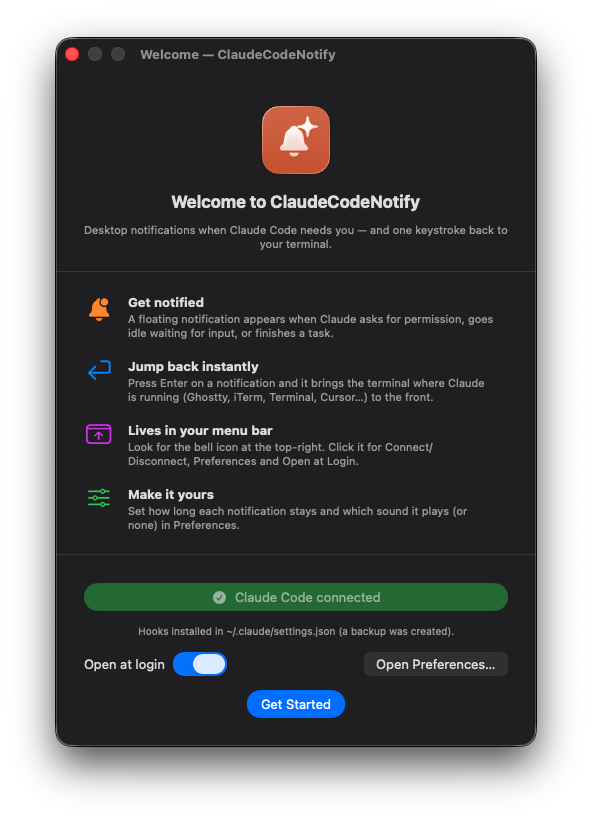
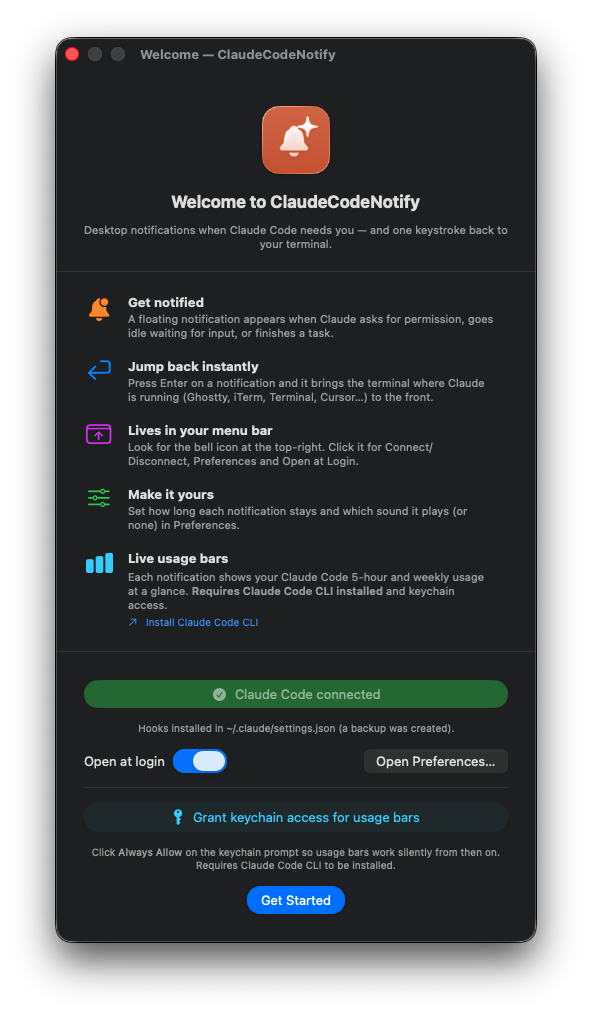
Add status usage

Changed region(s): [[0.0912, 0.0305, 0.9122, 0.9756]]

diff --git a/Sources/ClaudeCodeNotify/UI/OnboardingView.swift b/Sources/ClaudeCodeNotify/UI/OnboardingView.swift
@@ -7,6 +7,7 @@ struct OnboardingView: View {
 
     @State private var connected = HookInstaller.isInstalled
     @State private var loginEnabled = LoginItem.isEnabled
+    @State private var keychainGranted = false
 
     var body: some View {
         VStack(spacing: 0) {
@@ -50,9 +51,35 @@ struct OnboardingView: View {
                     "Look for the bell icon at the top-right. Click it for Connect/Disconnect, Preferences and Open at Login.")
             feature("slider.horizontal.3", .green, "Make it yours",
                     "Set how long each notification stays and which sound it plays (or none) in Preferences.")
+            featureUsage
         }
         .padding(.horizontal, 28)
         .padding(.vertical, 22)
+    }
+
+    private var featureUsage: some View {
+        HStack(alignment: .top, spacing: 14) {
+            Image(systemName: "chart.bar.fill")
+                .font(.system(size: 22))
+                .foregroundStyle(.cyan)
+                .frame(width: 30)
+            VStack(alignment: .leading, spacing: 4) {
+                Text("Live usage bars").font(.headline)
+                (Text("Each notification shows your Claude Code 5-hour and weekly usage at a glance. ")
+                    + Text("Requires Claude Code CLI installed").bold()
+                    + Text(" and keychain access."))
+                    .font(.subheadline).foregroundStyle(.secondary)
+                    .fixedSize(horizontal: false, vertical: true)
+                Button {
+                    NSWorkspace.shared.open(URL(string: "https://code.claude.com/docs/en/quickstart#step-1-install-claude-code")!)
+                } label: {
+                    Label("Install Claude Code CLI", systemImage: "arrow.up.right")
+                        .font(.caption)
+                }
+                .buttonStyle(.link)
+            }
+            Spacer(minLength: 0)
+        }
     }
 
     private func feature(_ icon: String, _ color: Color, _ title: String, _ desc: String) -> some View {
@@ -103,6 +130,28 @@ struct OnboardingView: View {
                 Spacer()
                 Button("Open Preferences…") { PreferencesWindowController.shared.show() }
             }
+
+            Divider()
+
+            Button {
+                Task {
+                    let granted = await UsageFetcher.fetch() != nil
+                    keychainGranted = granted
+                }
+            } label: {
+                Label(keychainGranted ? "Keychain access granted" : "Grant keychain access for usage bars",
+                      systemImage: keychainGranted ? "checkmark.circle.fill" : "key.fill")
+                    .frame(maxWidth: .infinity)
+            }
+            .controlSize(.large)
+            .buttonStyle(.bordered)
+            .tint(keychainGranted ? .green : .cyan)
+            .disabled(keychainGranted)
+
+            (Text("Click ") + Text("Always Allow").bold() + Text(" on the keychain prompt so usage bars work silently from then on. Requires Claude Code CLI to be installed."))
+                .font(.caption).foregroundStyle(.secondary)
+                .multilineTextAlignment(.center)
+                .fixedSize(horizontal: false, vertical: true)
 
             Button("Get Started", action: onClose)
                 .controlSize(.large)

diff --git a/Sources/ClaudeCodeNotify/Usage/UsageFetcher.swift b/Sources/ClaudeCodeNotify/Usage/UsageFetcher.swift
@@ -10,9 +10,17 @@ struct UsageData {
 enum UsageFetcher {
     private static let keychainService = "Claude Code-credentials"
     private static let apiURL = URL(string: "https://api.anthropic.com/v1/messages")!
+    private static let claudeCandidates = ["/opt/homebrew/bin/claude", "/usr/local/bin/claude", "claude"]
+    private static let refreshCooldown: TimeInterval = 5 * 60
+    private static var lastRefreshAttempt: Date = .distantPast
 
     static func fetch() async -> UsageData? {
+        return await fetchAttempt(retried: false)
+    }
+
+    private static func fetchAttempt(retried: Bool) async -> UsageData? {
         guard let token = readToken() else { return nil }
+
         var req = URLRequest(url: apiURL)
         req.httpMethod = "POST"
         req.setValue("2023-06-01", forHTTPHeaderField: "anthropic-version")
@@ -30,6 +38,12 @@ enum UsageFetcher {
         guard let (_, response) = try? await URLSession.shared.data(for: req),
               let http = response as? HTTPURLResponse else { return nil }
 
+        if (http.statusCode == 401 || http.statusCode == 403), !retried {
+            let refreshed = await attemptCliRefresh()
+            if refreshed { return await fetchAttempt(retried: true) }
+            return nil
+        }
+
         let h = { (name: String) -> String? in http.value(forHTTPHeaderField: name) }
 
         guard let u5 = pct(h("anthropic-ratelimit-unified-5h-utilization")),
@@ -41,6 +55,25 @@ enum UsageFetcher {
             util7d: u7,
             reset7d: epoch(h("anthropic-ratelimit-unified-7d-reset"))
         )
+    }
+
+    private static func attemptCliRefresh() async -> Bool {
+        guard Date().timeIntervalSince(lastRefreshAttempt) > refreshCooldown else { return false }
+        lastRefreshAttempt = Date()
+        return await withCheckedContinuation { continuation in
+            let p = Process()
+            p.executableURL = URL(fileURLWithPath: claudeCandidates[0])
+            p.arguments = ["-p", "hi", "--max-budget-usd", "0.01"]
+            p.standardInput = FileHandle.nullDevice
+            p.standardOutput = FileHandle.nullDevice
+            p.standardError = FileHandle.nullDevice
+            p.terminationHandler = { _ in continuation.resume(returning: true) }
+            do {
+                try p.run()
+            } catch {
+                continuation.resume(returning: false)
+            }
+        }
     }
 
     private static func readToken() -> String? {

diff --git a/Sources/ClaudeCodeNotify/MenuBar/StatusItemController.swift b/Sources/ClaudeCodeNotify/MenuBar/StatusItemController.swift
@@ -1,4 +1,5 @@
 import AppKit
+import SwiftUI
 
 /// Item de menu bar: ícone de sino + menu (conectar/desconectar o Claude Code, abrir no login, sair).
 @MainActor
@@ -6,6 +7,7 @@ final class StatusItemController: NSObject {
     private let statusItem: NSStatusItem
     private var config: Config
     private var token: String { config.token }
+    private var menuUsage: UsageData? = nil
 
     init(config: Config) {
         self.config = config
@@ -35,6 +37,20 @@ final class StatusItemController: NSObject {
                                   action: nil, keyEquivalent: "")
         header.isEnabled = false
         header.image = statusDot(connected ? .systemGreen : .systemRed)
+
+        if let usage = menuUsage {
+            menu.addItem(.separator())
+            let usageItem = NSMenuItem()
+            usageItem.isEnabled = false
+            let hostingView = NSHostingView(rootView:
+                UsageBarsView(usage: usage, horizontalPadding: 17)
+                    .frame(width: 260)
+                    .environment(\.colorScheme, .dark)
+            )
+            hostingView.frame = CGRect(origin: .zero, size: hostingView.fittingSize)
+            usageItem.view = hostingView
+            menu.addItem(usageItem)
+        }
 
         menu.addItem(.separator())
         if connected {
@@ -169,6 +185,13 @@ extension StatusItemController: NSMenuDelegate {
             await Updater.shared.silentCheck()
             if !hadUpdate && Updater.shared.hasNewVersion {
                 await MainActor.run { self.rebuildMenu() }
+            }
+        }
+        Task {
+            let usage = await UsageFetcher.fetch()
+            await MainActor.run {
+                self.menuUsage = usage
+                self.rebuildMenu()
             }
         }
         rebuildMenu() // reflete o estado real do settings.json a cada abertura

diff --git a/Sources/ClaudeCodeNotify/Usage/UsageBarsView.swift b/Sources/ClaudeCodeNotify/Usage/UsageBarsView.swift
@@ -2,6 +2,7 @@ import SwiftUI
 
 struct UsageBarsView: View {
     let usage: UsageData
+    var horizontalPadding: CGFloat = 16
 
     var body: some View {
         VStack(spacing: 6) {
@@ -9,7 +10,7 @@ struct UsageBarsView: View {
             UsageBarRow(label: "5h", util: usage.util5h, reset: usage.reset5h)
             UsageBarRow(label: "7d", util: usage.util7d, reset: usage.reset7d)
         }
-        .padding(.horizontal, 16)
+        .padding(.horizontal, horizontalPadding)
         .padding(.bottom, 14)
         .padding(.top, 6)
     }
@@ -27,17 +28,13 @@ private struct UsageBarRow: View {
                 .foregroundStyle(.secondary)
                 .frame(width: 16, alignment: .leading)
 
-            GeometryReader { geo in
-                ZStack(alignment: .leading) {
-                    RoundedRectangle(cornerRadius: 3)
-                        .fill(Color.white.opacity(0.1))
-                        .frame(height: 6)
-                    RoundedRectangle(cornerRadius: 3)
-                        .fill(barColor)
-                        .frame(width: geo.size.width * util, height: 6)
-                }
+            Canvas { ctx, size in
+                let track = Path(roundedRect: CGRect(x: 0, y: 0, width: size.width, height: size.height), cornerRadius: 2)
+                ctx.fill(track, with: .color(.white.opacity(0.1)))
+                let fill = Path(roundedRect: CGRect(x: 0, y: 0, width: size.width * util, height: size.height), cornerRadius: 2)
+                ctx.fill(fill, with: .color(barColor.opacity(0.55)))
             }
-            .frame(height: 6)
+            .frame(height: 4)
 
             Text("\(Int(util * 100))%")
                 .font(.caption2)

diff --git a/Sources/ClaudeCodeNotify/UI/NotificationRenderer.swift b/Sources/ClaudeCodeNotify/UI/NotificationRenderer.swift
@@ -12,9 +12,18 @@ enum NotificationRenderer {
             (sample(event: "Stop", type: nil, msg: nil, last: "Done — refactored the auth module, added retries, and the full test suite is green."), "iTerm2")
         ].compactMap { ev, host in ev.map { ($0, host) } }
 
+        let sampleUsages = [
+            UsageData(util5h: 0.07,  reset5h: Date().addingTimeInterval(7200),
+                      util7d: 0.62,  reset7d: Date().addingTimeInterval(259200)),
+            UsageData(util5h: 0.68,  reset5h: Date().addingTimeInterval(3600),
+                      util7d: 0.88,  reset7d: Date().addingTimeInterval(172800)),
+            UsageData(util5h: 0.94,  reset5h: Date().addingTimeInterval(1800),
+                      util7d: 0.82,  reset7d: Date().addingTimeInterval(86400)),
+        ]
+
         let stack = VStack(spacing: 16) {
-            ForEach(Array(samples.enumerated()), id: \.offset) { _, pair in
-                NotificationView(event: pair.0, hostAppName: pair.1)
+            ForEach(Array(samples.enumerated()), id: \.offset) { i, pair in
+                NotificationView(event: pair.0, hostAppName: pair.1, previewUsage: sampleUsages[i])
             }
         }
         .padding(28)
@@ -24,7 +33,10 @@ enum NotificationRenderer {
         )
         .environment(\.colorScheme, .dark)
 
-        let renderer = ImageRenderer(content: stack)
+        let measurer = NSHostingView(rootView: stack)
+        let naturalSize = measurer.fittingSize
+
+        let renderer = ImageRenderer(content: stack.frame(width: naturalSize.width, height: naturalSize.height))
         renderer.scale = 2
         guard let image = renderer.nsImage, let tiff = image.tiffRepresentation,
               let bmp = NSBitmapImageRep(data: tiff),

diff --git a/website/index.html b/website/index.html
@@ -69,8 +69,8 @@
 
         <div class="hero__visual">
           <img src="assets/notifications.png"
-               alt="Three ClaudeCodeNotify notification cards: Claude needs permission, Claude is waiting for you, and Claude finished — each showing a keystroke to return to the terminal."
-               width="952" height="702" loading="eager" />
+               alt="Three ClaudeCodeNotify notification cards: Claude needs permission, Claude is waiting for you, and Claude finished — each showing live usage bars."
+               width="952" height="1056" loading="eager" />
         </div>
       </div>
     </section>
@@ -113,6 +113,11 @@
             <p>A bell icon with a connection status dot. Connect or disconnect anytime — no Dock icon, no clutter.</p>
           </li>
           <li class="card">
+            <span class="card__icon" aria-hidden="true">⚡</span>
+            <h3>Live usage bars</h3>
+            <p>Every notification and menu shows your Claude Code 5-hour rolling and weekly usage — color-coded with a reset countdown.</p>
+          </li>
+          <li class="card">
             <span class="card__icon" aria-hidden="true">🔒</span>
             <h3>Local &amp; private</h3>
             <p>A tiny local server on <code>127.0.0.1</code> with a token. Nothing leaves your machine.</p>
@@ -140,12 +145,12 @@
             <figcaption>Preferences — tune display time and sound for each notification type (0 = until dismissed).</figcaption>
           </figure>
           <figure class="shot shot--wide">
-            <img src="assets/notifications.png" alt="The three notification types: permission request, idle waiting, and finished task." width="952" height="702" loading="lazy" />
-            <figcaption>The three notification types — permission, idle, and finished.</figcaption>
+            <img src="assets/notifications.png" alt="The three notification types: permission request, idle waiting, and finished task — each showing live 5h and 7d usage bars at the bottom." width="952" height="702" loading="lazy" />
+            <figcaption>The three notification types — permission, idle, and finished — each with live usage bars.</figcaption>
           </figure>
           <figure class="shot shot--wide">
-            <img src="assets/menu.png" alt="The menu bar dropdown showing a green 'Claude Code: connected' status, with Disconnect, Welcome, Preferences, Open at Login, Check for Updates, a Support ClaudeCodeNotify submenu, and Quit." width="299" height="295" loading="lazy" />
-            <figcaption>Lives in your menu bar — connection status, preferences, and check for updates.</figcaption>
+            <img src="assets/menu.png" alt="The menu bar dropdown showing a green 'Claude Code: connected' status, live 5h and 7d usage progress bars, with Disconnect, Welcome, Preferences, Open at Login, Check for Updates, a Support ClaudeCodeNotify submenu, and Quit." width="299" height="295" loading="lazy" />
+            <figcaption>Menu bar — connection status, live usage bars, preferences, and check for updates.</figcaption>
           </figure>
         </div>
       </div>

diff --git a/Sources/ClaudeCodeNotify/UI/NotificationView.swift b/Sources/ClaudeCodeNotify/UI/NotificationView.swift
@@ -5,6 +5,7 @@ struct NotificationView: View {
     let event: NotificationEvent
     var hostAppName: String? = nil
 
+    var previewUsage: UsageData? = nil
     @State private var usage: UsageData? = nil
 
     var body: some View {
@@ -35,8 +36,8 @@ struct NotificationView: View {
             }
             .padding(16)
 
-            if let usage {
-                UsageBarsView(usage: usage)
+            if let display = usage ?? previewUsage {
+                UsageBarsView(usage: display)
             }
         }
         .frame(width: 420)
@@ -45,7 +46,11 @@ struct NotificationView: View {
             RoundedRectangle(cornerRadius: 16, style: .continuous)
                 .strokeBorder(.white.opacity(0.08))
         )
+        .onAppear {
+            if let previewUsage { usage = previewUsage }
+        }
         .task {
+            guard previewUsage == nil else { return }
             usage = await UsageFetcher.fetch()
         }
     }